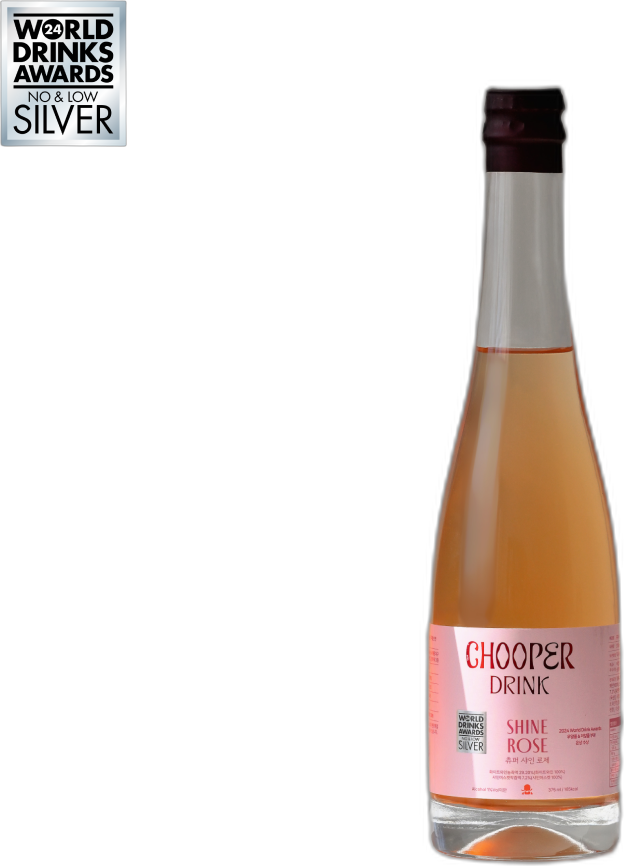
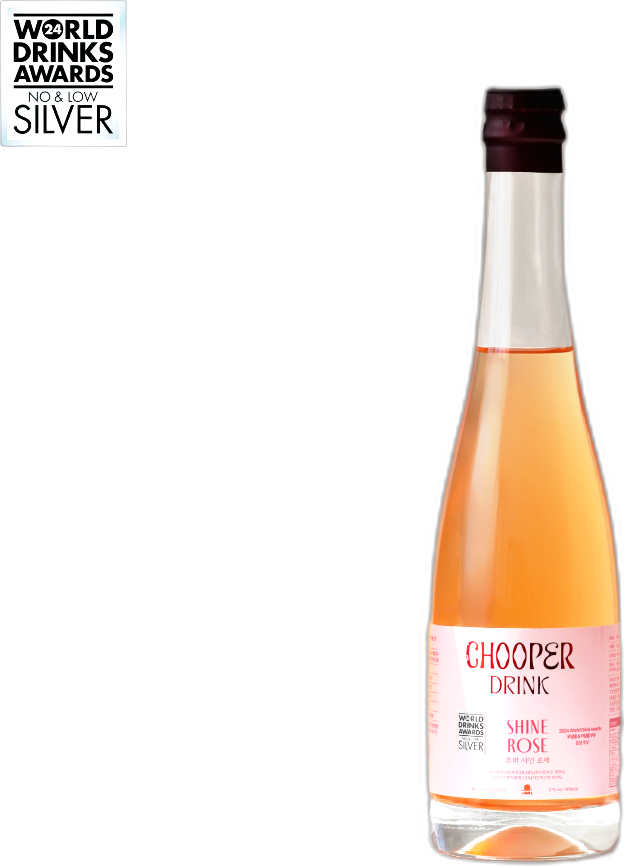
fix(collection): N°02 누끼 밝기·색 보정 — 자연광 화사한 느낌 + 750ml 음료색 매칭
- 어두운 톤 보정 (gain 1.45, 하이라이트 soft rolloff)
- 음료색 [157,95,51] → [235,136,67] (750ml [235,142,73]과 매칭)
- 캐시버스트 v=2 → v=3

Changed region(s): [[0.6699, 0.1871, 1.0, 0.9977], [0.0, 0.0, 0.2131, 0.1871], [0.7917, 0.1247, 0.8221, 0.1559]]

diff --git a/index.html b/index.html
@@ -446,7 +446,7 @@
       <span class="bot-num">N°02</span>
       <span class="bot-size">375ml</span>
       <figure class="bot-img">
-        <img src="images/shine-rose-375.png?v=2" alt="Chooper Shine Rosé 375ml" />
+        <img src="images/shine-rose-375.png?v=3" alt="Chooper Shine Rosé 375ml" />
       </figure>
       <div class="bot-text">
         <p class="bot-medal">2024 WDA 은상</p>
